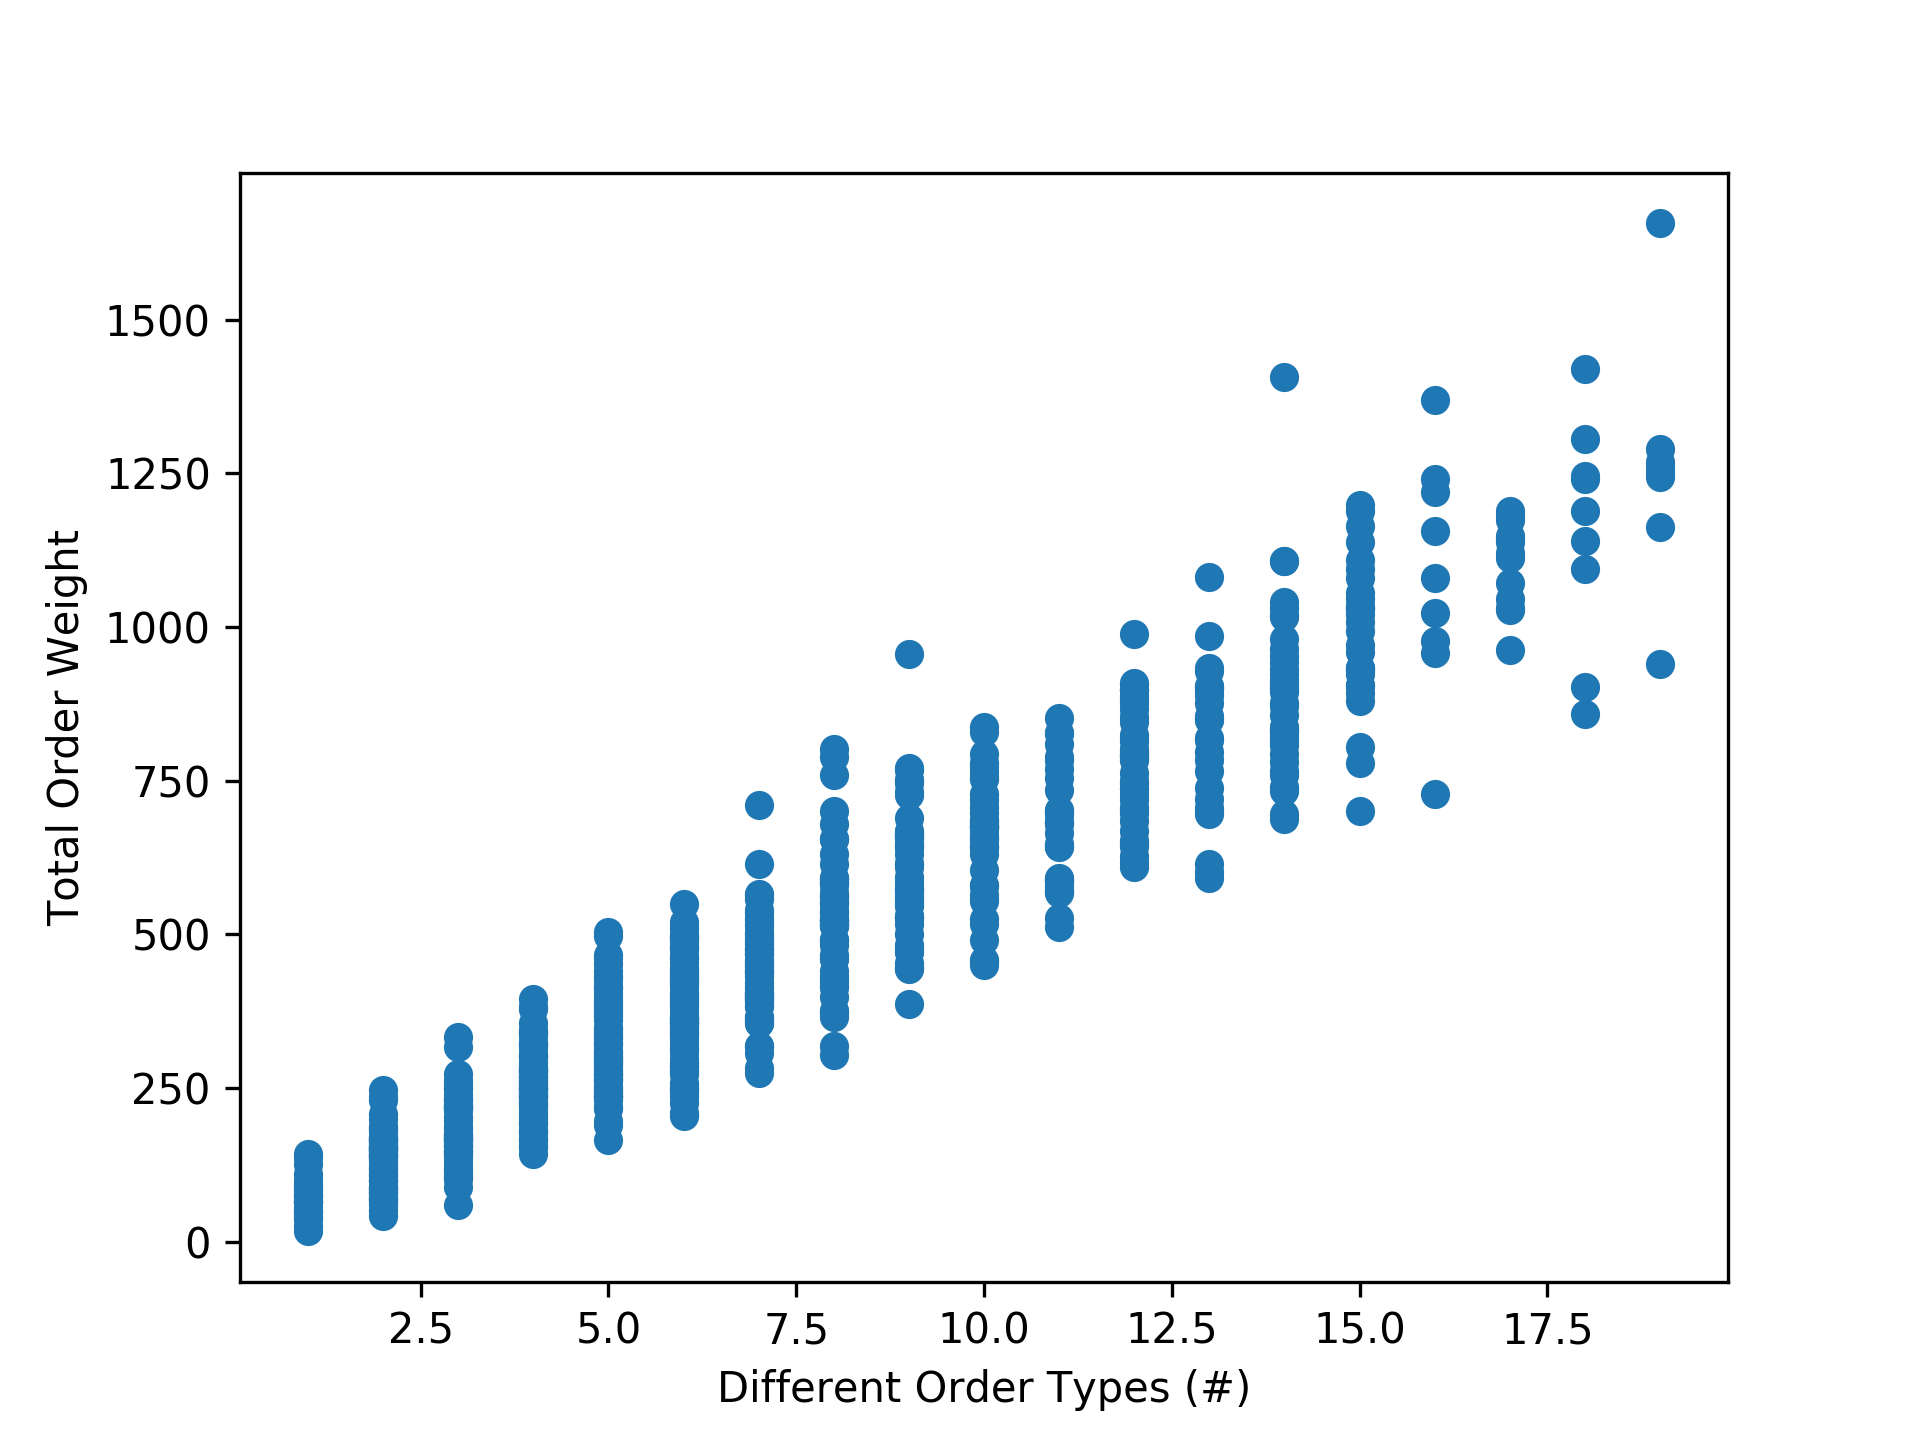
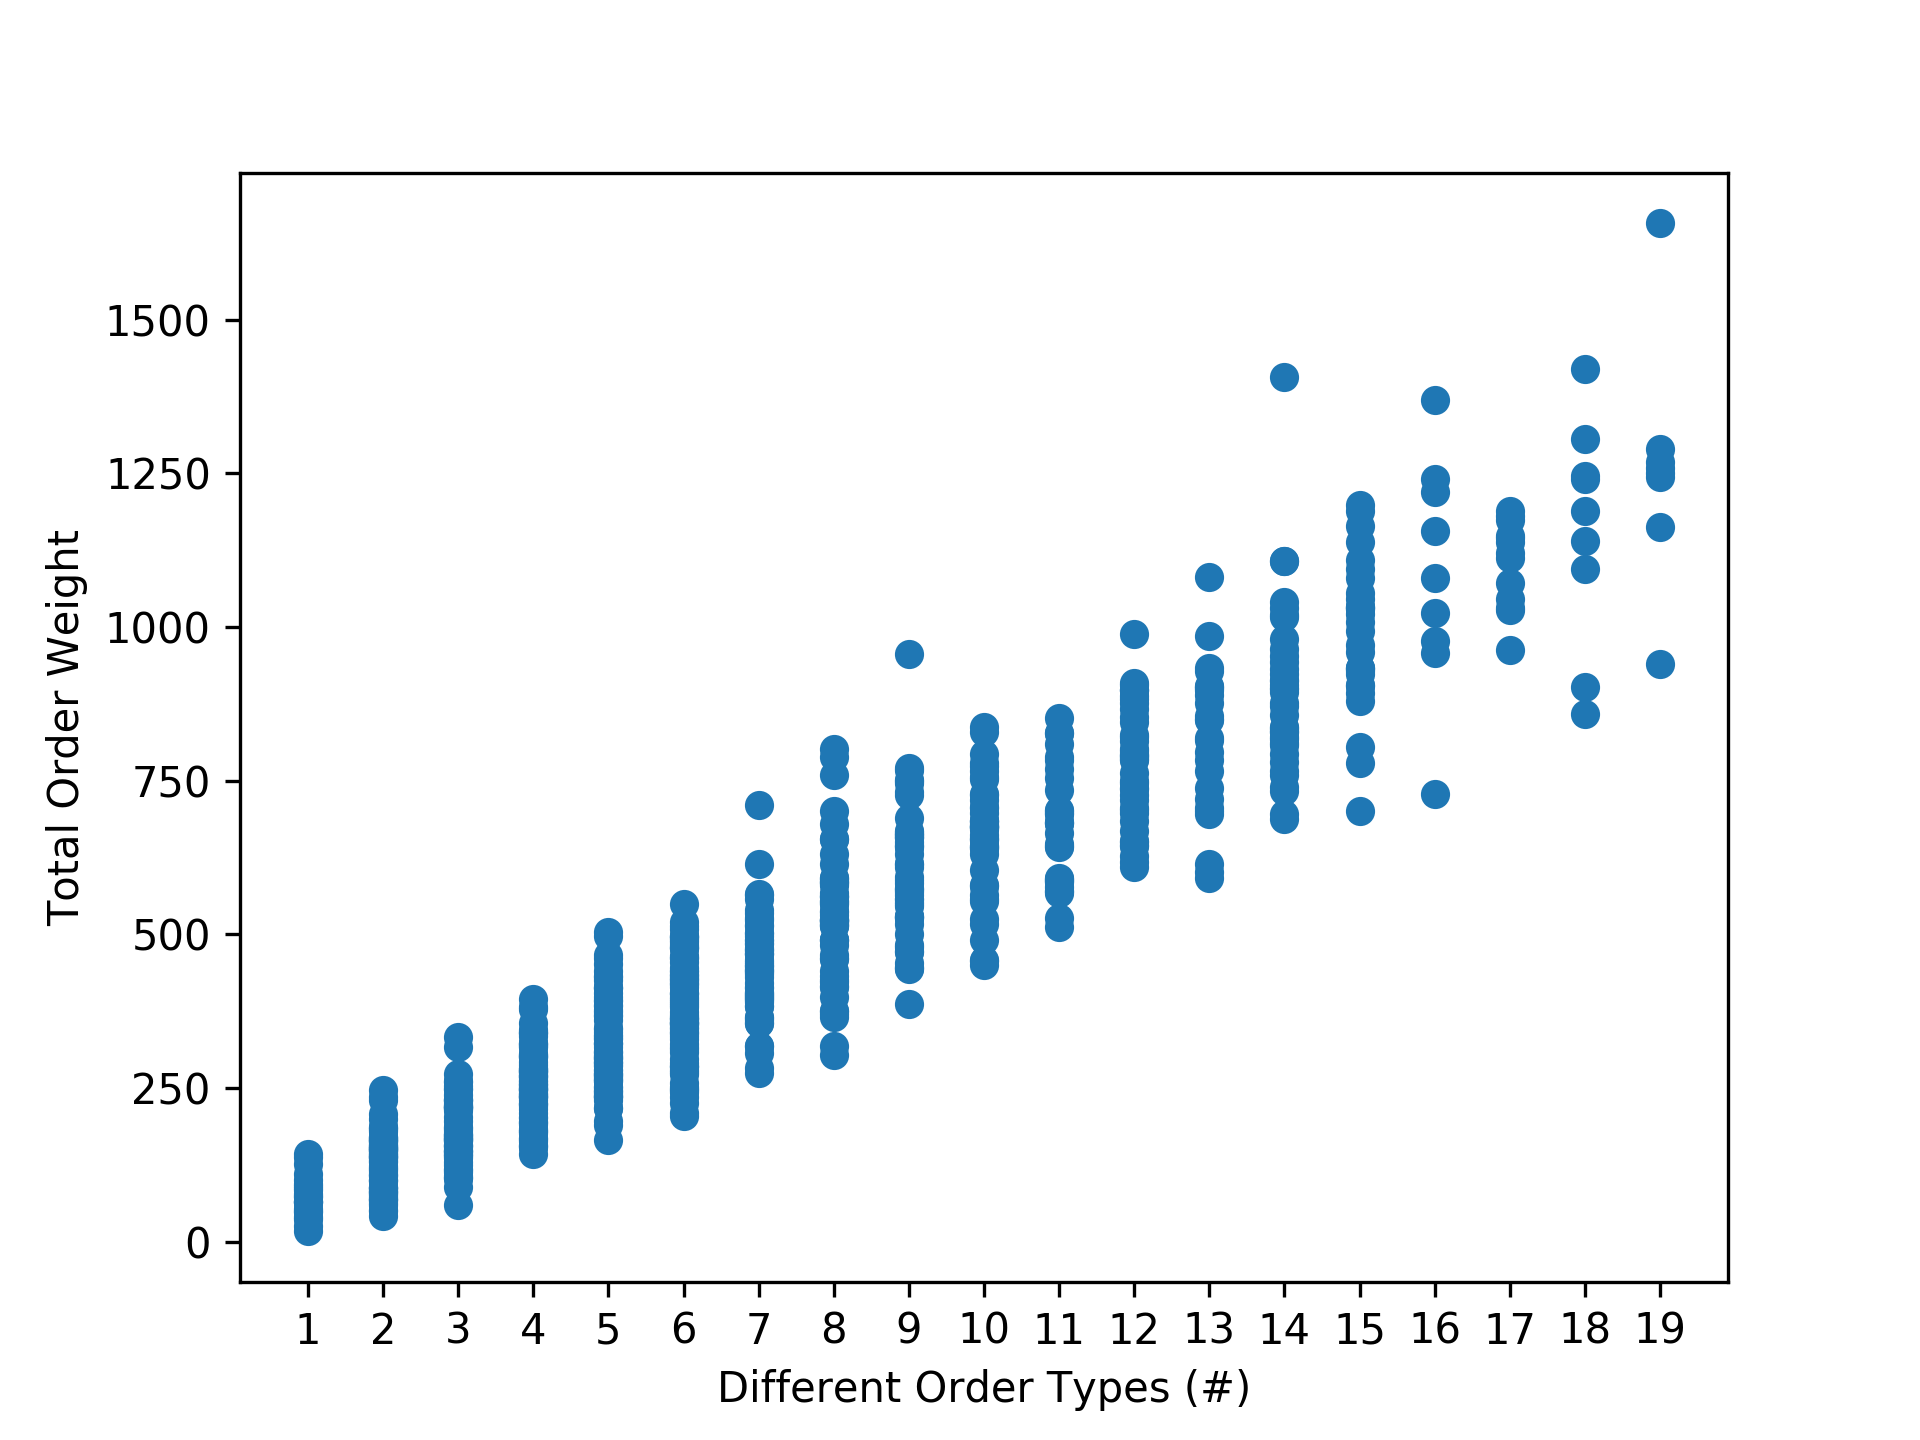
Corrected scatter plot to be more accurate

Changed region(s): [[0.4688, 0.9062, 0.875, 0.9375], [0.1875, 0.9062, 0.4375, 0.9375]]

diff --git a/GoogleHashcode2016DeliveryScoring.py b/GoogleHashcode2016DeliveryScoring.py
@@ -71,16 +71,17 @@ for id in range(order_no):
     orders.append(order)
 
 
-# orders.sort(key=lambda o:o.prodvariety)
-# ourweights = [o.weight for o in orders]
-# prodTypeVar = [o.prodvariety for o in orders]
-# plt.scatter(prodTypeVar, ourweights)
-# plt.xlabel('Different Order Types (#)')
-# plt.ylabel('Total Order Weight')
-# plt.savefig('plots/orderweights_vs_typedifference.png', dpi=300)
-# plt.show()
-# import sys
-# sys.exit(0)
+orders.sort(key=lambda o:o.prodvariety)
+ourweights = [o.weight for o in orders]
+prodTypeVar = [o.prodvariety for o in orders]
+plt.scatter(prodTypeVar, ourweights)
+plt.xlabel('Different Order Types (#)')
+plt.xticks(range(1, len(set(prodTypeVar)) + 1))
+plt.ylabel('Total Order Weight')
+plt.savefig('plots/orderweights_vs_typedifference.png', dpi=300)
+plt.show()
+import sys
+sys.exit(0)
 
 # initially, all drones are available at the warehouse id 0, list of pids
 drones = [Drone(did, warehouses[0].loc[:], {}) for did in range(drones_no)]
